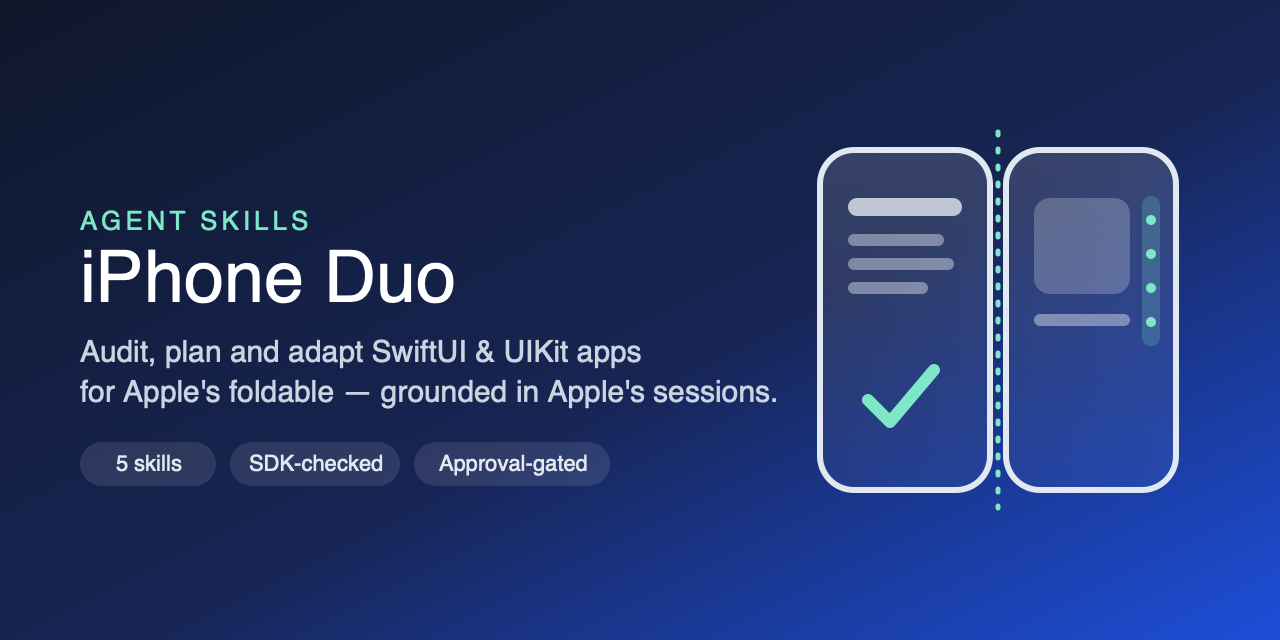
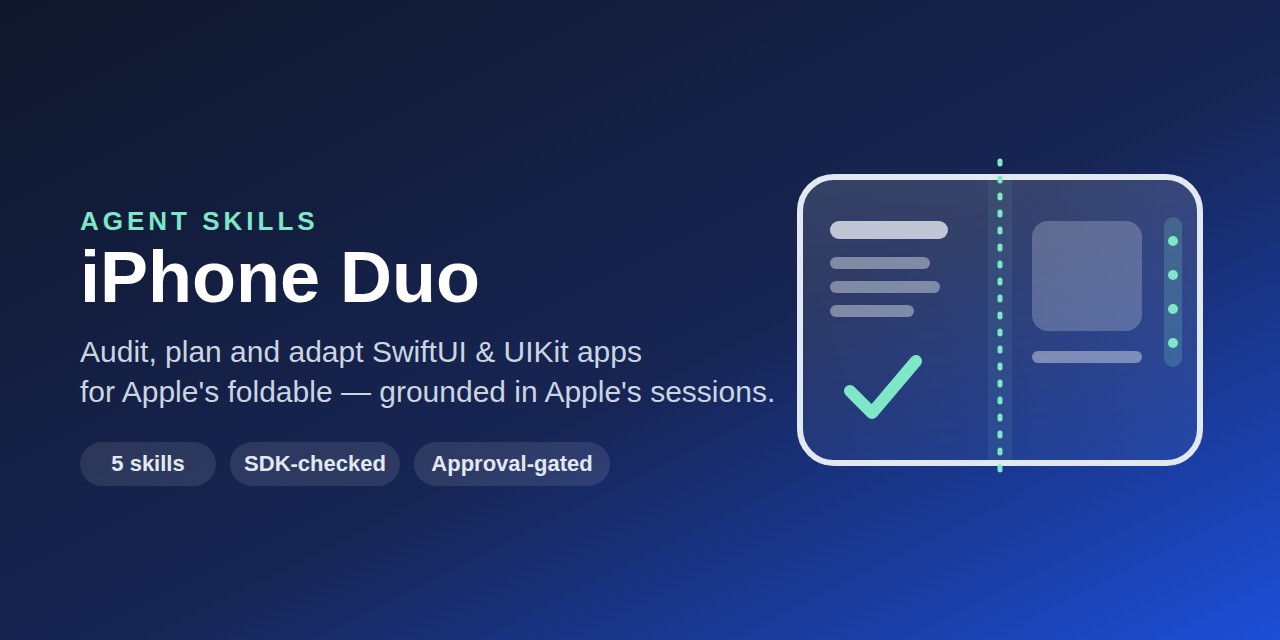
Redraw the device in the assets and publish releases from version tags (#3)
Banner, social preview and logo now show one 1.40:1 display with the folding region as a band and the vertical bar on the trailing edge. A push of a vX.Y.Z tag runs the Release workflow, which checks the tag against the plugin version, re-runs the checks, packages the skills and publishes a GitHub release. Workflows use actions/checkout v7 and softprops/action-gh-release v3.

diff --git a/CONTRIBUTING.md b/CONTRIBUTING.md
@@ -37,3 +37,19 @@ and review outputs in its viewer. Trigger accuracy is tuned with its `run_loop` 
 python3 scripts/sync_skill_copies.py --check
 python3 -m unittest discover -s tests -v
 ```
+
+## Releasing
+
+1. Bump the version in `.claude-plugin/plugin.json`, `.claude-plugin/marketplace.json`,
+   `.cursor-plugin/plugin.json` and `agents/openai.yaml` (the tests check they agree)
+   and merge it to `main`.
+2. Tag that commit and push the tag:
+
+   ```bash
+   git tag v1.1.0 && git push origin v1.1.0
+   ```
+
+The `Release` workflow (`.github/workflows/release.yml`) refuses a tag that does not
+match the plugin version, re-runs the checks, builds one `.skill` archive per skill
+with `scripts/package_skills.py`, and publishes a GitHub release with the archives and
+generated notes.

diff --git a/AGENTS.md b/AGENTS.md
@@ -23,7 +23,8 @@ This repository contains Agent Skills that advise on and change iOS app code.
   improvement; `scripts/package_skills.py` leaves `evals/` out of release archives.
 - Keep the plugin version identical in `.claude-plugin/plugin.json`,
   `.claude-plugin/marketplace.json`, `.cursor-plugin/plugin.json` and
-  `agents/openai.yaml`.
+  `agents/openai.yaml`. A GitHub release is cut by pushing a matching `vX.Y.Z` tag;
+  the `Release` workflow builds the `.skill` archives (`CONTRIBUTING.md` › Releasing).
 - Run before completing a change:
 
   ```bash
